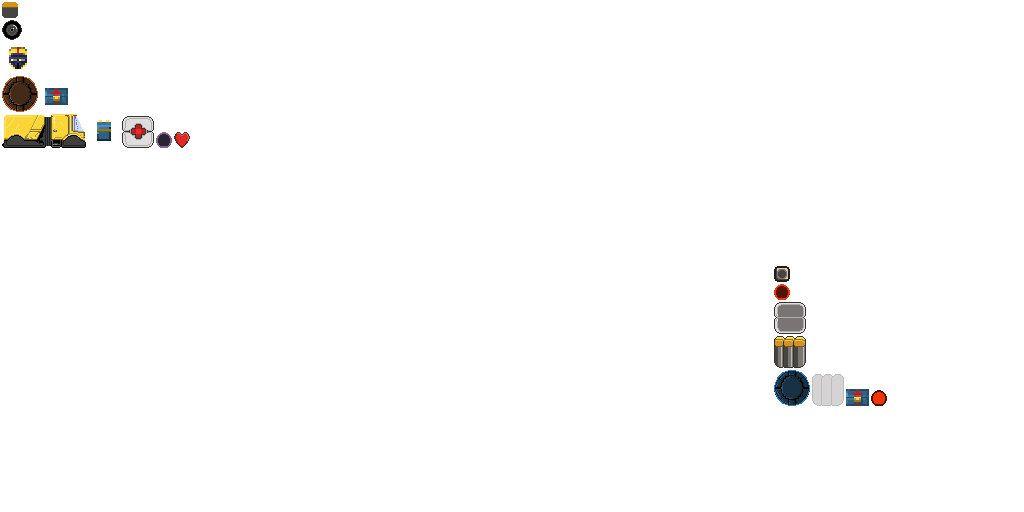
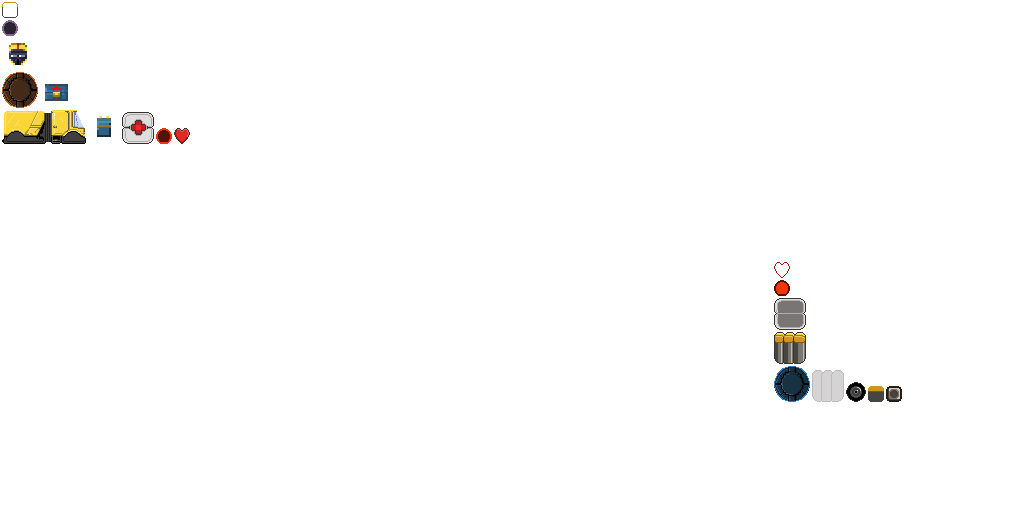
maps et fix/improvements

Changed region(s): [[0.0, 0.0, 0.1875, 0.3125], [0.75, 0.5, 0.9062, 0.8125]]

diff --git a/android/assets/maps/tilset.tsx b/android/assets/maps/tilset.tsx
@@ -1,4 +1,4 @@
 <?xml version="1.0" encoding="UTF-8"?>
-<tileset name="tilset" tilewidth="64" tileheight="64" tilecount="16" columns="4">
- <image source="tilset.png" width="256" height="256"/>
+<tileset name="tilset" tilewidth="32" tileheight="32" tilecount="16" columns="4">
+ <image source="tilset.png" width="128" height="128"/>
 </tileset>

diff --git a/core/src/net/mgsx/dl11/ui/ItemBar.java b/core/src/net/mgsx/dl11/ui/ItemBar.java
@@ -4,6 +4,7 @@ import com.badlogic.gdx.graphics.g2d.TextureRegion;
 import com.badlogic.gdx.scenes.scene2d.ui.Image;
 import com.badlogic.gdx.scenes.scene2d.ui.Skin;
 import com.badlogic.gdx.scenes.scene2d.ui.Table;
+import com.badlogic.gdx.scenes.scene2d.utils.TextureRegionDrawable;
 import com.badlogic.gdx.utils.Array;
 import com.badlogic.gdx.utils.Scaling;
 
@@ -11,9 +12,14 @@ public class ItemBar extends Table
 {
 	private Array<Image> images = new Array<Image>();
 	private int value;
+	private TextureRegion regionOn;
+	private TextureRegion regionOff;
 	
-	public ItemBar(int init, int max, TextureRegion region, Skin skin) {
+	public ItemBar(int init, int max, TextureRegion regionOn,  TextureRegion regionOff, Skin skin) {
 		super(skin);
+		
+		this.regionOn = regionOn;
+		this.regionOff = regionOff;
 		
 		setRound(false);
 		
@@ -22,7 +28,7 @@ public class ItemBar extends Table
 		defaults().pad(.01f);
 		
 		for(int i=0 ; i<max ; i++){
-			Image img = new Image(region);
+			Image img = new Image(regionOff);
 			img.setScaling(Scaling.fit);
 			images.add(img);
 			add(img).size(16f / 32f);
@@ -34,7 +40,14 @@ public class ItemBar extends Table
 	public void act(float delta) {
 		
 		for(int i=0 ; i<images.size ; i++){
-			images.get(i).getColor().a = i < value ? 1 : .2f;
+			if(i < value){
+				((TextureRegionDrawable)images.get(i).getDrawable()).setRegion(regionOn);
+				// images.get(i).setColor(Color.WHITE);
+			}else{
+				((TextureRegionDrawable)images.get(i).getDrawable()).setRegion(regionOff);
+				// images.get(i).setColor(Color.GRAY);
+			}
+			// images.get(i).getColor().a = i < value ? 1 : .2f;
 		}
 		super.act(delta);
 	}

diff --git a/core/src/net/mgsx/dl11/ui/HUD.java b/core/src/net/mgsx/dl11/ui/HUD.java
@@ -30,8 +30,8 @@ public class HUD extends Table
 		
 		root.setRound(false);
 		
-		root.add(lifeBar = new ItemBar(game.heroLife, GameSettings.HERO_LIFE_MAX, Assets.i.getLifeRegion(), skin));
-		root.add(fuelBar = new ItemBar(game.heroFuel, GameSettings.HERO_FUEL_MAX, Assets.i.getFuelMiniRegion(), skin));
+		root.add(lifeBar = new ItemBar(game.heroLife, GameSettings.HERO_LIFE_MAX, Assets.i.getLifeRegion(), Assets.i.getLifeEmptyRegion(), skin));
+		root.add(fuelBar = new ItemBar(game.heroFuel, GameSettings.HERO_FUEL_MAX, Assets.i.getFuelMiniRegion(), Assets.i.getFuelMiniEmptyRegion(), skin));
 		root.add(fuelRate = new MeterUI(Color.YELLOW, skin)).height(.3f).width(4f);
 		
 		// debugAll();

diff --git a/core/src/net/mgsx/dl11/assets/Assets.java b/core/src/net/mgsx/dl11/assets/Assets.java
@@ -125,6 +125,13 @@ public class Assets {
 		return skin.getRegion("fuel-mini");
 	}
 	
+	public TextureRegion getLifeEmptyRegion() {
+		return skin.getRegion("life-empty");
+	}
+	public TextureRegion getFuelMiniEmptyRegion() {
+		return skin.getRegion("fuel-mini-empty");
+	}
+	
 	public TiledMap getMap(String name) {
 		for(MapDesc map : maps){
 			if(map.name.equals(name)){

diff --git a/core/src/net/mgsx/dl11/screens/GameScreen.java b/core/src/net/mgsx/dl11/screens/GameScreen.java
@@ -28,7 +28,7 @@ import net.mgsx.dl11.utils.UniControl;
 
 public class GameScreen extends StageScreen implements StoryHandler
 {
-	private static final float unitScale = 1f / 64f;
+	private static final float unitScale = 1f / 32f;
 
 	private OrthogonalTiledMapRenderer mapRenderer;
 	
